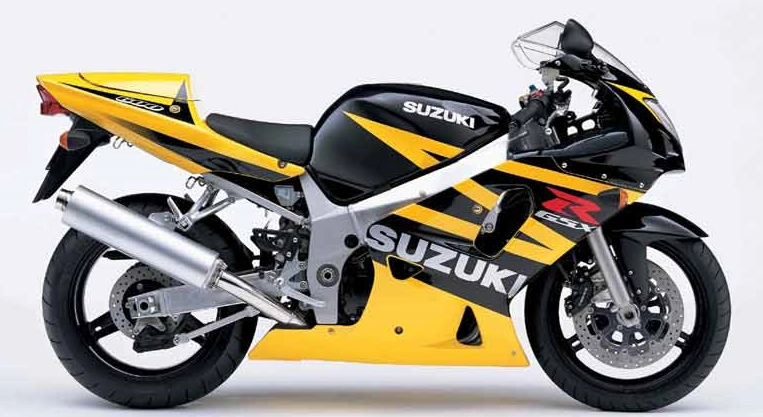
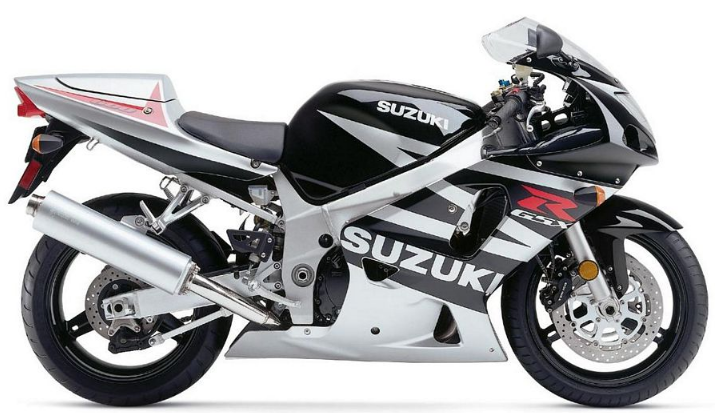
adding img

diff --git a/src/pages/brandDetails/YearDetails.jsx b/src/pages/brandDetails/YearDetails.jsx
@@ -10,12 +10,14 @@ function YearDetails() {
     return (
         <div className="year-details">
             <h1 className="year-title">{modelName} {subModelName}</h1>  
-            <div className="title-underline"></div>
+            <div className="year-underline"></div>
             <div className="year-grid">
                 {yearsData.map((yearItem, index) => (
                     <div key={index} className="year-card">
                         <img src={yearItem.img} alt={yearItem.year} className="year-image" />
+            
                         <p className="year-name">{yearItem.year}</p>
+                       
                     </div>
                 ))}
             </div>

diff --git a/src/pages/brandDetails/yearDetailsData.js b/src/pages/brandDetails/yearDetailsData.js
@@ -1,12 +1,13 @@
 import GSXR9600 from "../../assets/SUZUKI/GSXR9600.png";
 import GSXR20012003 from "../../assets/SUZUKI/GSXR20012003.png";
+import GSXR20042005 from "../../assets/SUZUKI/GSXR20042005.png";
 
 const yearDetailsData = {
     "GSX-R": {
         "600": [
             { year: "1996-2000", img: GSXR9600 },
             { year: "2001-2003", img: GSXR20012003 },
-            { year: "2004-2005", img: GSXR20012003 },
+            { year: "2004-2005", img: GSXR20042005 },
             { year: "2006-2007", img: GSXR20012003 },
             { year: "2008-2010", img: GSXR20012003 },
         ],

diff --git a/src/pages/brandDetails/yearDetails.css b/src/pages/brandDetails/yearDetails.css
@@ -33,6 +33,12 @@
     transition: transform 0.3s ease, box-shadow 0.3s ease;
 }
 
+.year-underline{
+    height: 2px;
+    background-color: #f39c12;
+    margin-bottom: 20px; 
+    margin-right: 200px;
+}
 
 .year-image {
     width: 60%;
@@ -64,3 +70,4 @@
     width: 100%;
     left: 0;
 }
+
